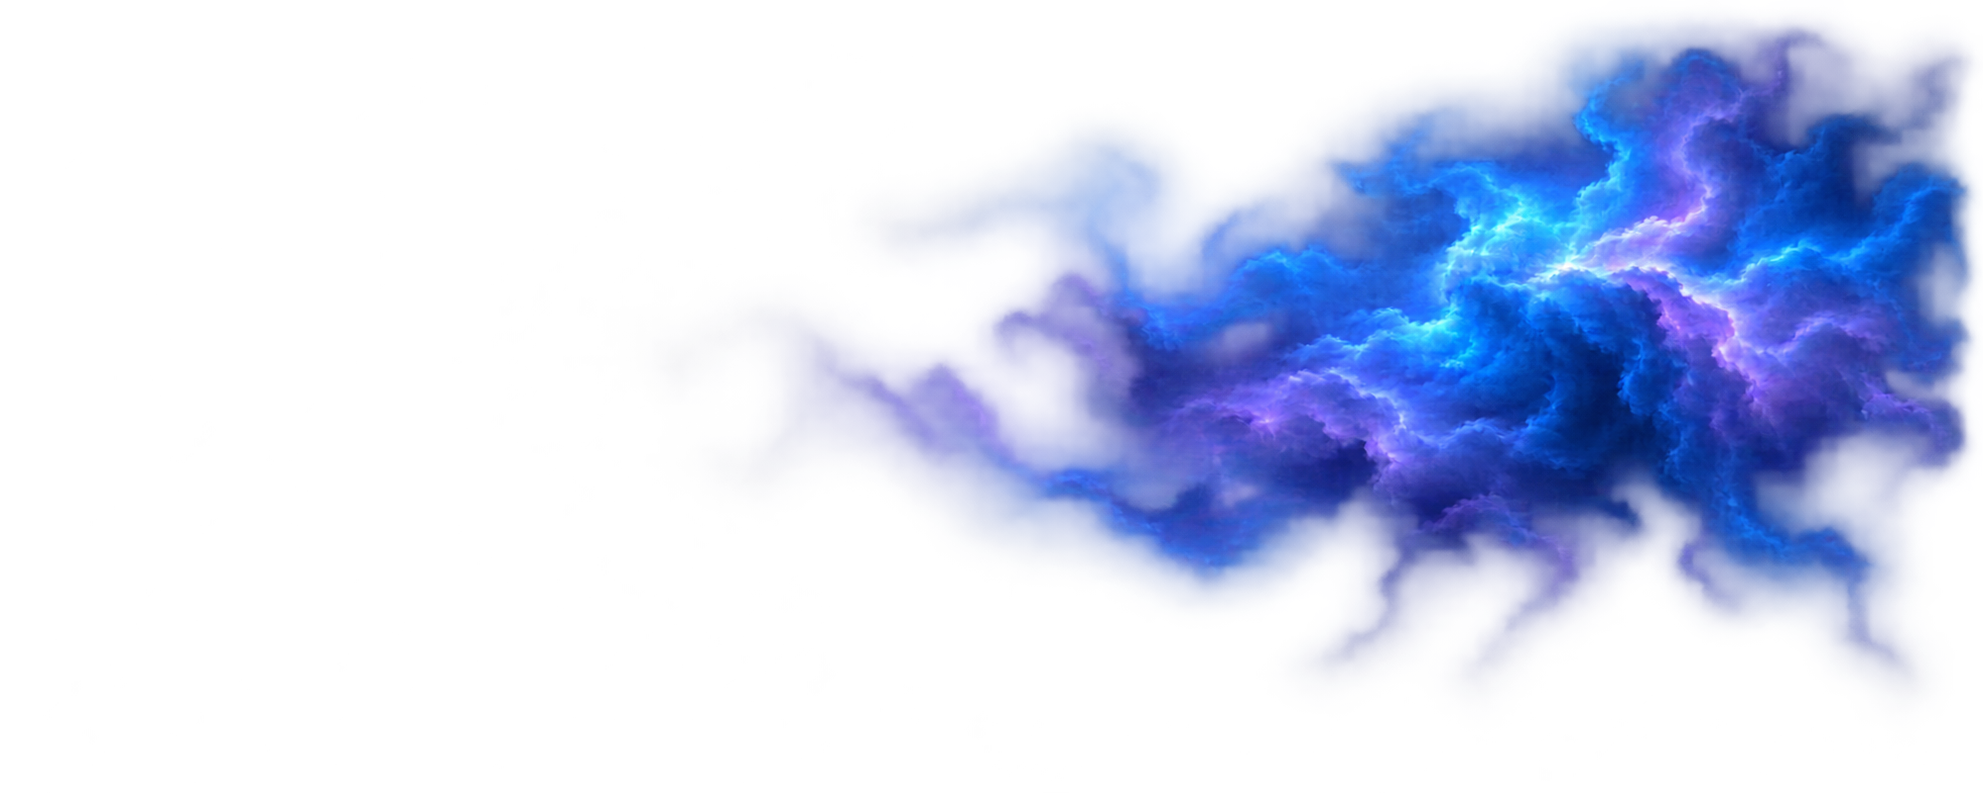
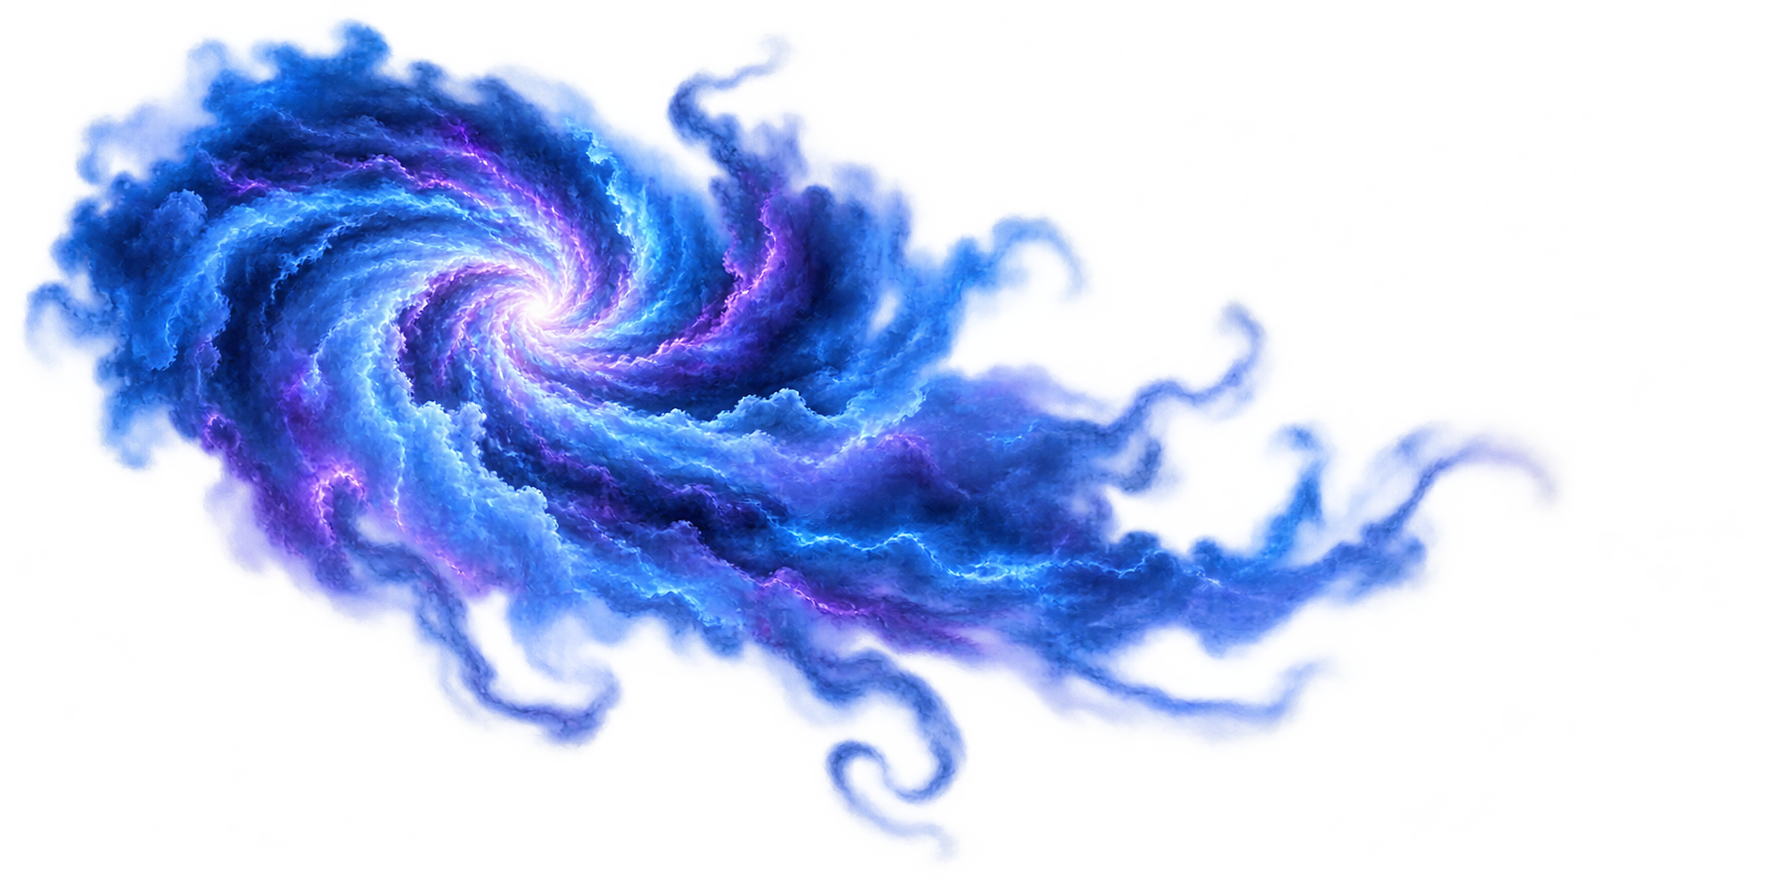
Move swirling nebula to LinkedIn cover left

diff --git a/scripts/generate_linkedin_cover.py b/scripts/generate_linkedin_cover.py
@@ -32,9 +32,9 @@ def main() -> None:
         color = (255, 255, 255, alpha) if random.random() > 0.28 else (143, 188, 255, alpha)
         draw.ellipse((x - radius, y - radius, x + radius, y + radius), fill=color)
 
-    nebula = contain(ASSETS / "linkedin-nebula.png", 1650, 760)
-    nebula.putalpha(nebula.getchannel("A").point(lambda value: value * 150 // 255))
-    canvas.alpha_composite(nebula, (WIDTH - nebula.width - 130, -220))
+    nebula = contain(ASSETS / "linkedin-nebula.png", 1800, 820)
+    nebula.putalpha(nebula.getchannel("A").point(lambda value: value * 105 // 255))
+    canvas.alpha_composite(nebula, (-120, -270))
 
     earth = contain(ASSETS / "clay-world.png", 900, 900)
     canvas.alpha_composite(earth, (WIDTH - 730, -95))
